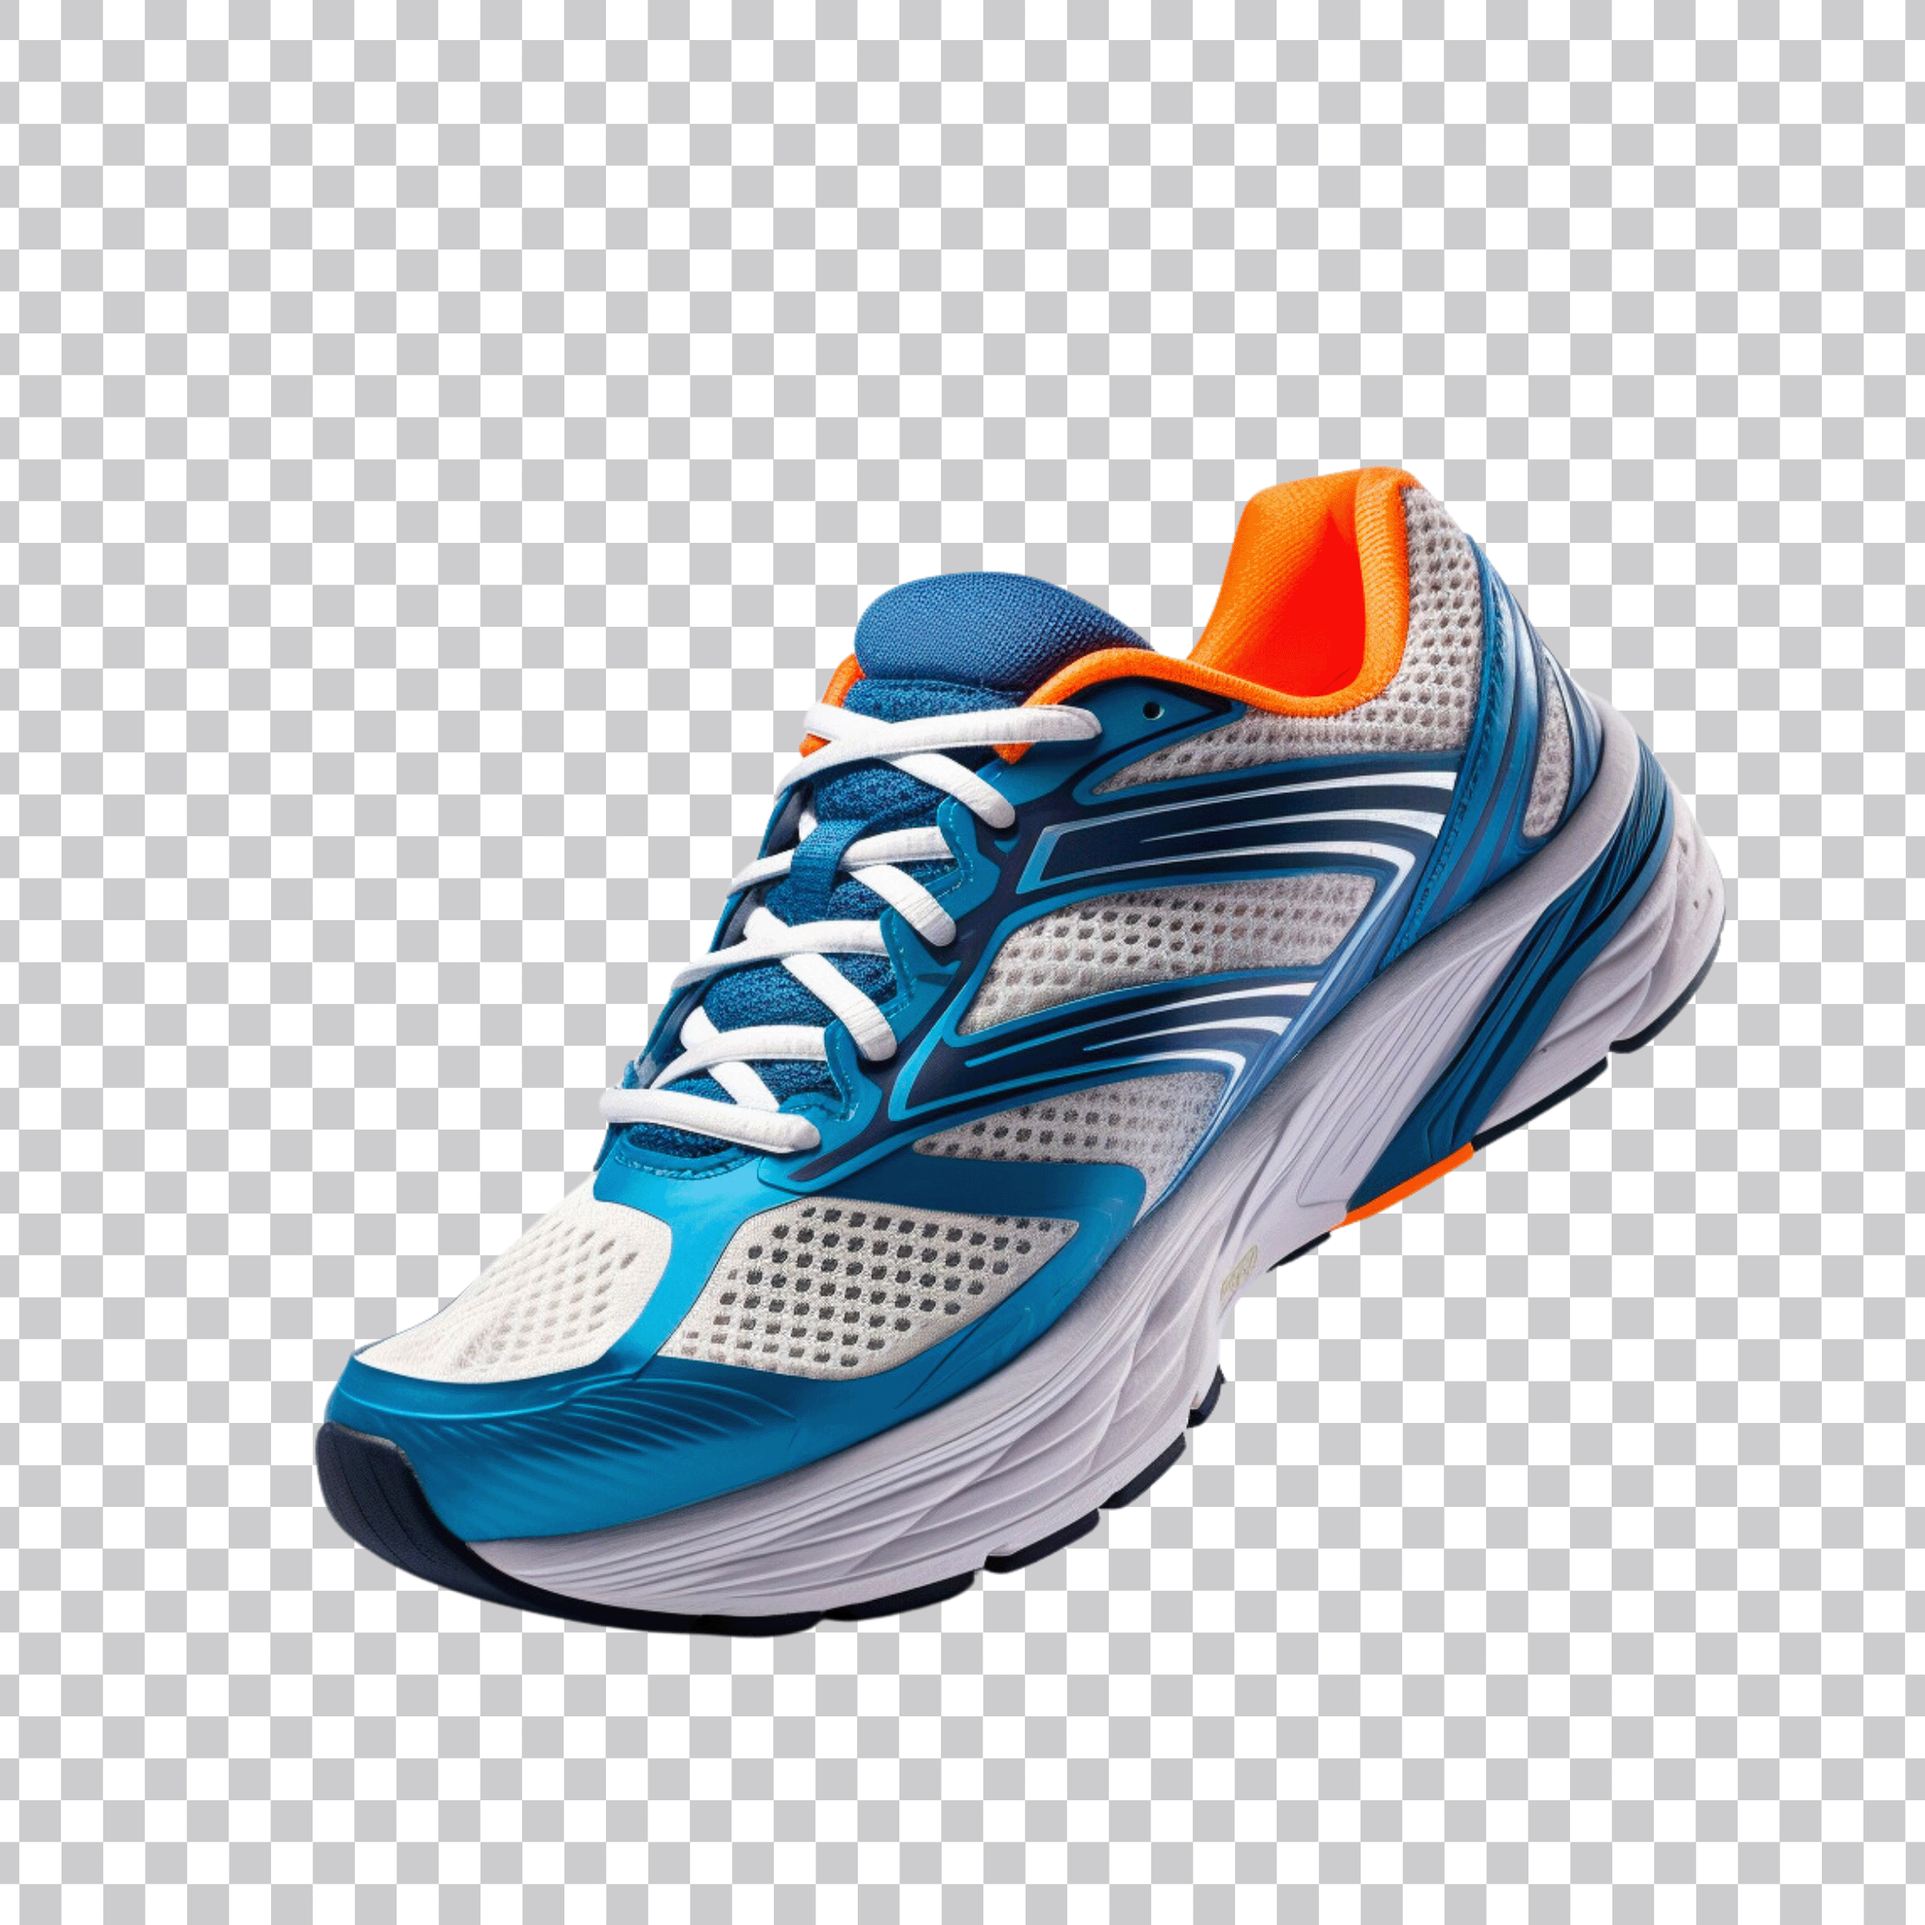
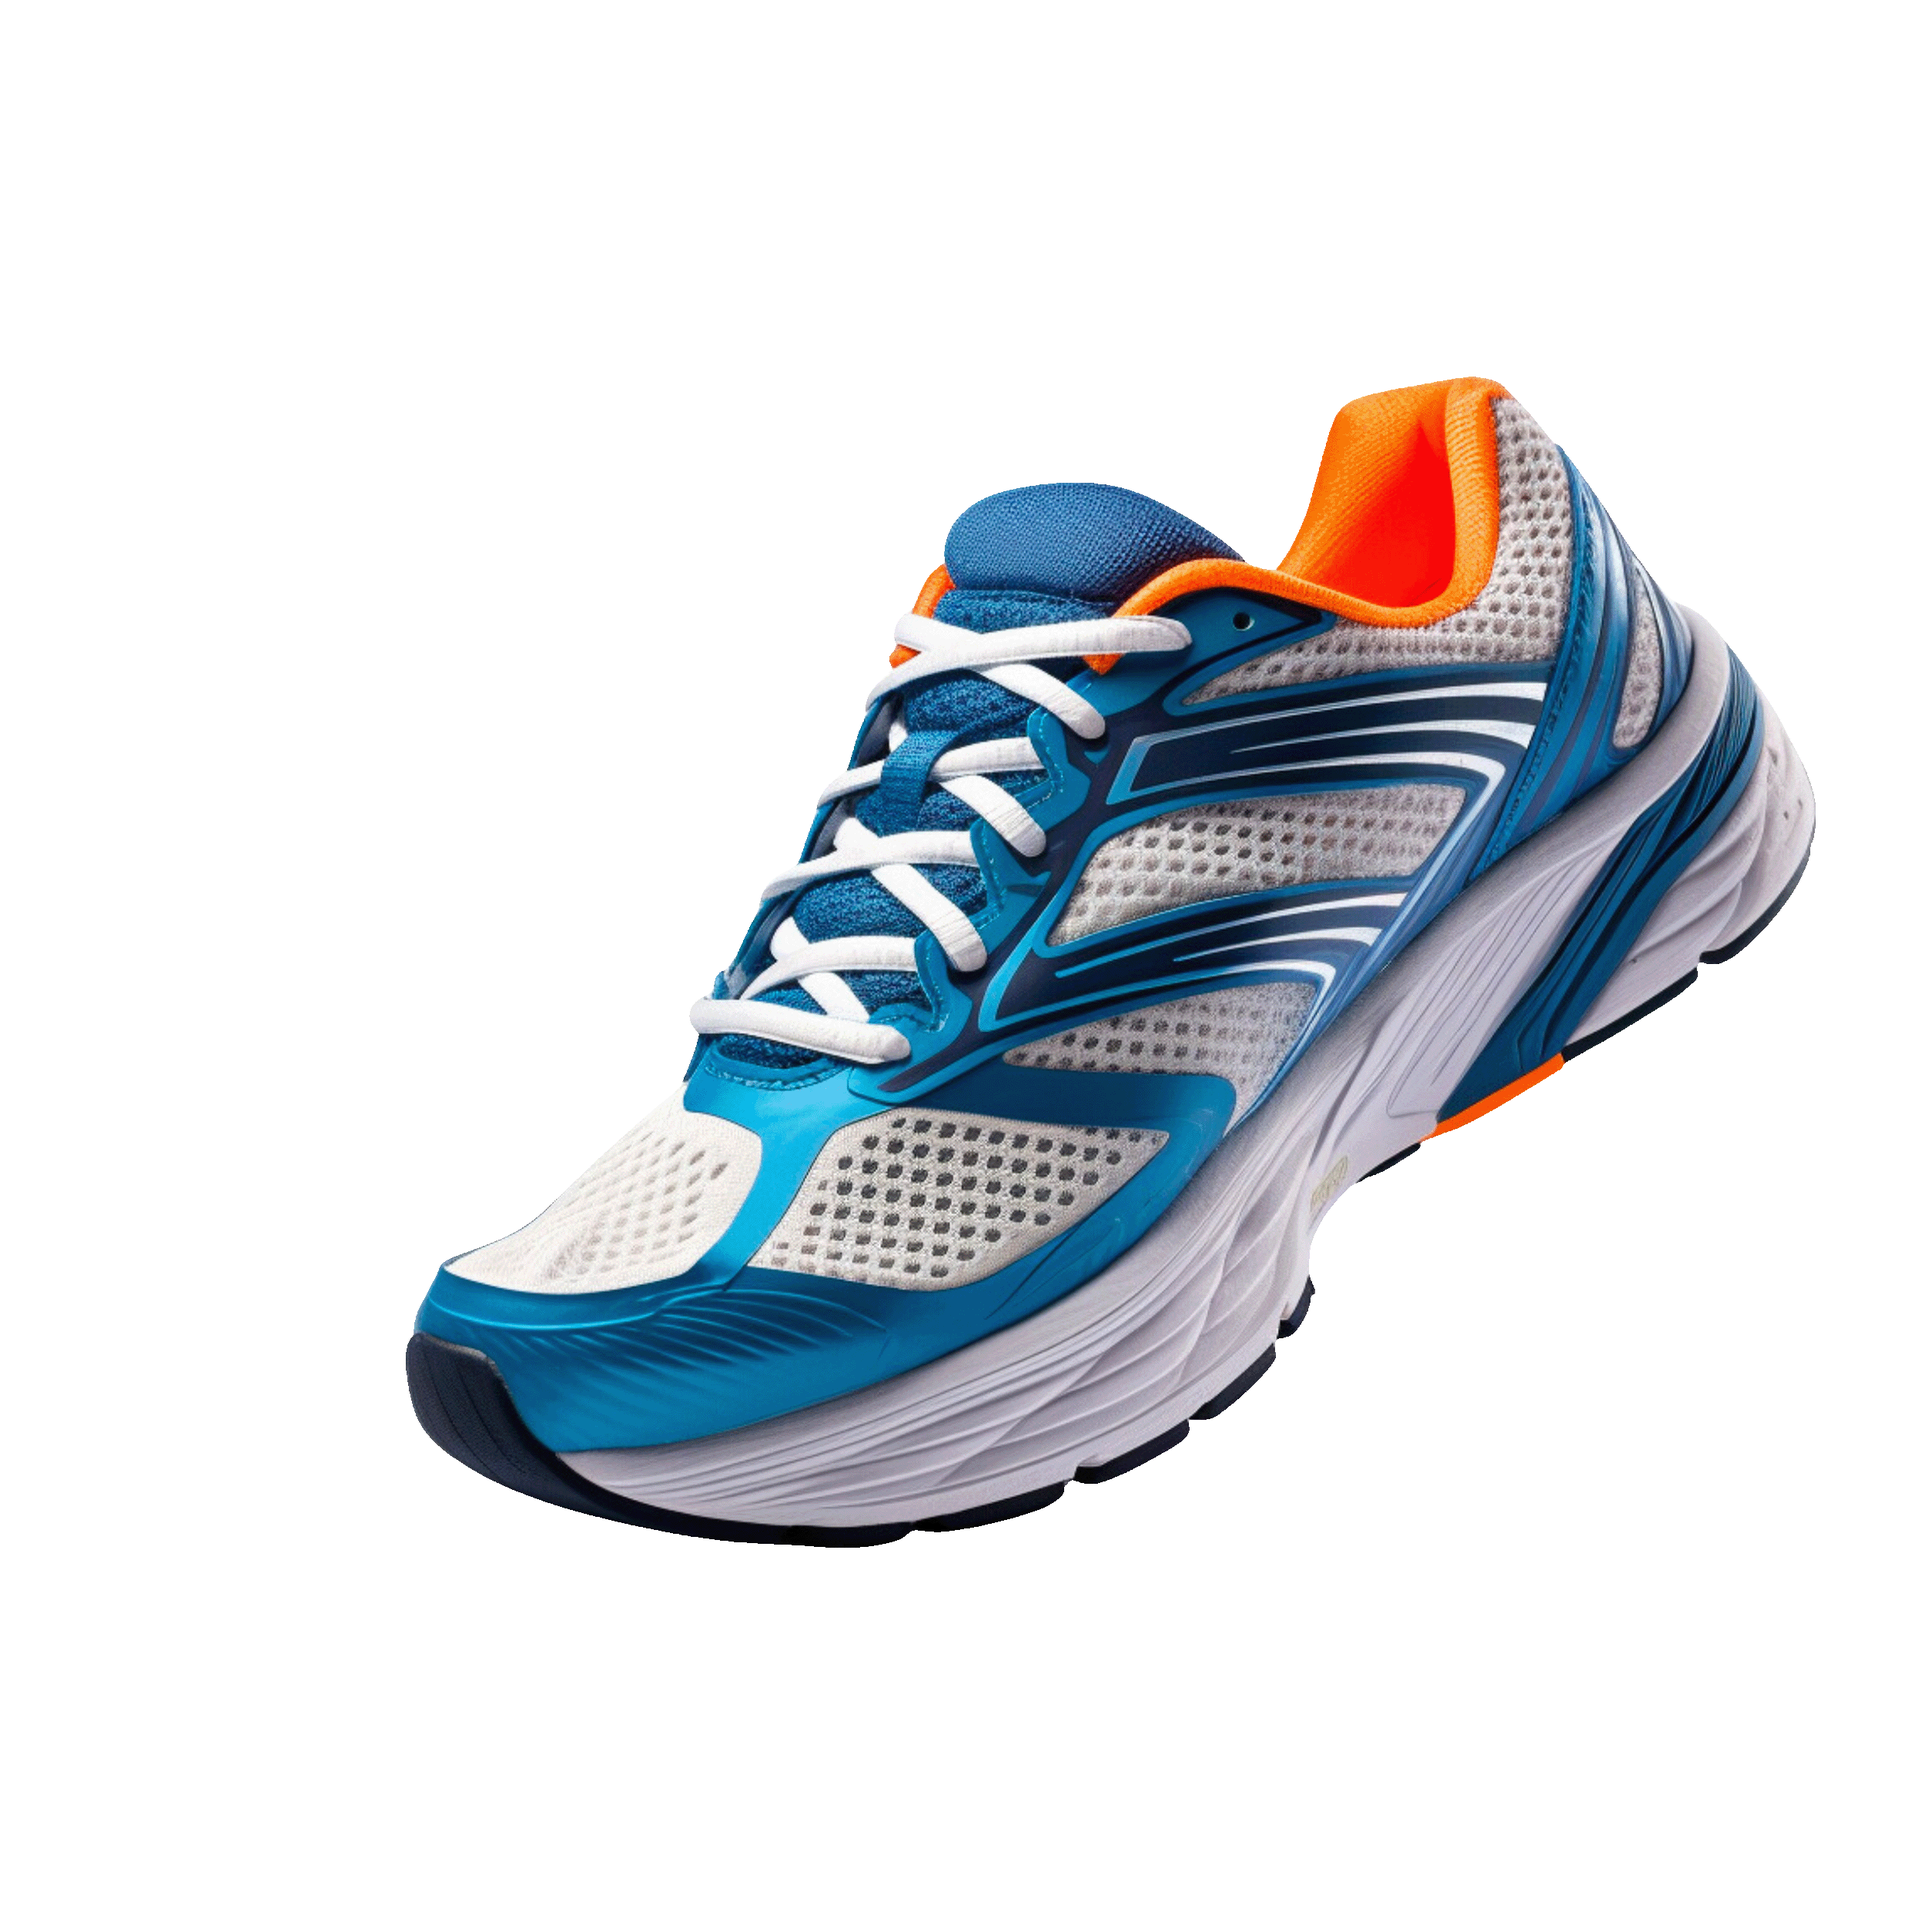
product images are added

diff --git a/css/products.css b/css/products.css
@@ -194,7 +194,7 @@ main #products .product-boxes {
 
 .product-boxes .box .image {
     width: 90%;
-    height: 26vh; /* Reduced from 30vh */
+    height: 24vh; /* Reduced from 30vh */
     margin: auto;
     background-color: rgba(252, 169, 44, 0.226);
     border-radius: 0.875rem; /* Reduced from 1rem */
@@ -256,4 +256,44 @@ main #products .product-boxes {
 .box .buttons .shop {
     color: aliceblue;
     background-color: brown;
+}
+
+
+/* frome here information about individual product is started  */
+
+.product-boxes .box-one .image-1 {
+    width: 90%;
+    height: 26.8vh;
+     /* Reduced from 30vh */
+    margin: auto;
+    border-radius: 0.875rem;
+     /* Reduced from 1rem */
+    /* background-color: rgba(252, 169, 44, 0.226); */
+    background-image: url("/images/bg1-img.jpg");
+    background-size: cover;
+    background-repeat: no-repeat;
+}
+.product-boxes .box-one .image-2 {
+    width: 90%;
+    height: 27vh;
+     /* Reduced from 30vh */
+    margin: auto;
+    border-radius: 0.875rem;
+     /* Reduced from 1rem */
+    /* background-color: rgba(252, 169, 44, 0.226); */
+    background-image: url("/images/bg2-img.png");
+    background-size: cover;
+    background-repeat: no-repeat;
+}
+.product-boxes .box-one .image-3 {
+    width: 90%;
+    height: 26vh;
+     /* Reduced from 30vh */
+    margin: auto;
+    border-radius: 0.875rem;
+     /* Reduced from 1rem */
+    /* background-color: rgba(252, 169, 44, 0.226); */
+    background-image: url("/images/bg3-img.png");
+    background-size: cover;
+    background-repeat: no-repeat;
 }

diff --git a/index.html b/index.html
@@ -104,7 +104,7 @@
                         </a>
                     </div>
                     
-                    <div class="image">
+                    <div class="image-1">
                         <div class="image-one"></div>
                     </div>
 
@@ -144,7 +144,7 @@
                         </a>
                     </div>
                     
-                    <div class="image">
+                    <div class="image-2">
                         <div class="image-one"></div>
                     </div>
 
@@ -184,7 +184,7 @@
                         </a>
                     </div>
                     
-                    <div class="image">
+                    <div class="image-3">
                         <div class="image-one"></div>
                     </div>
 
